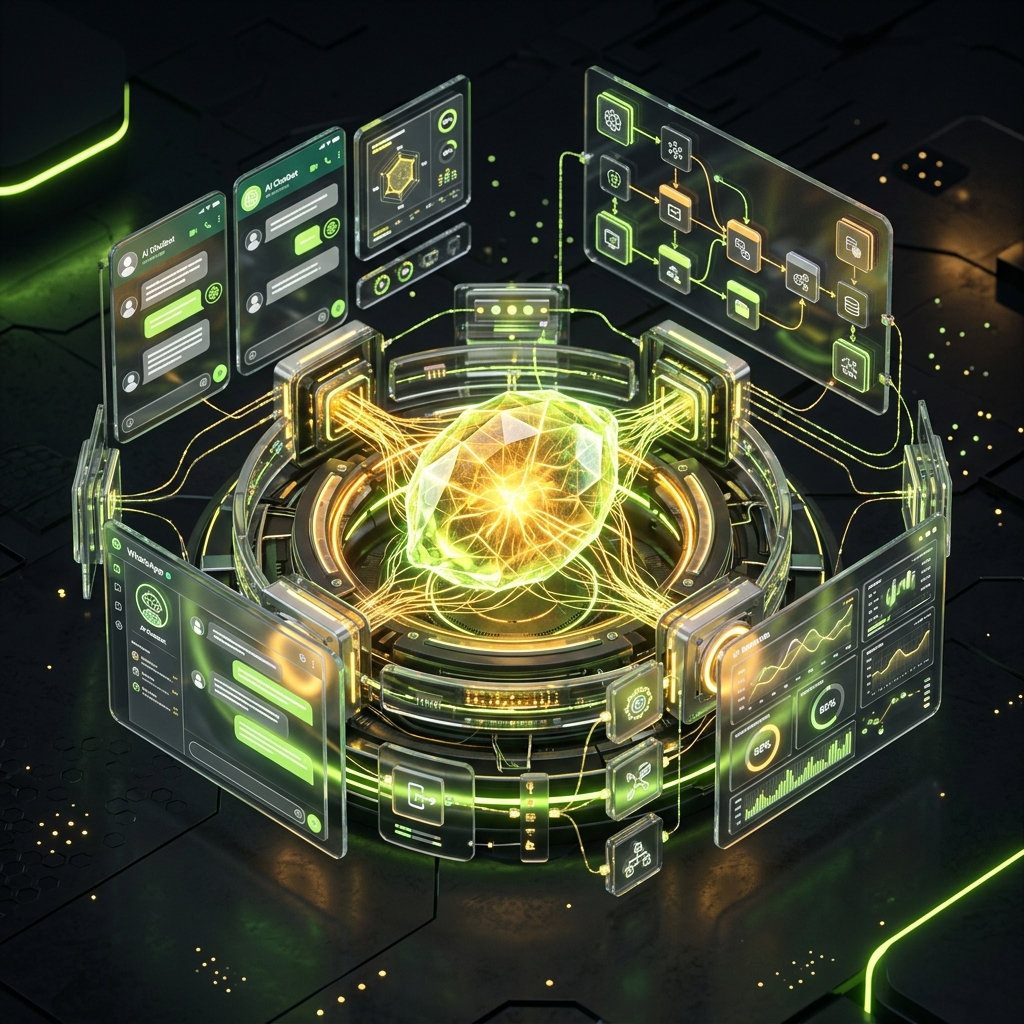
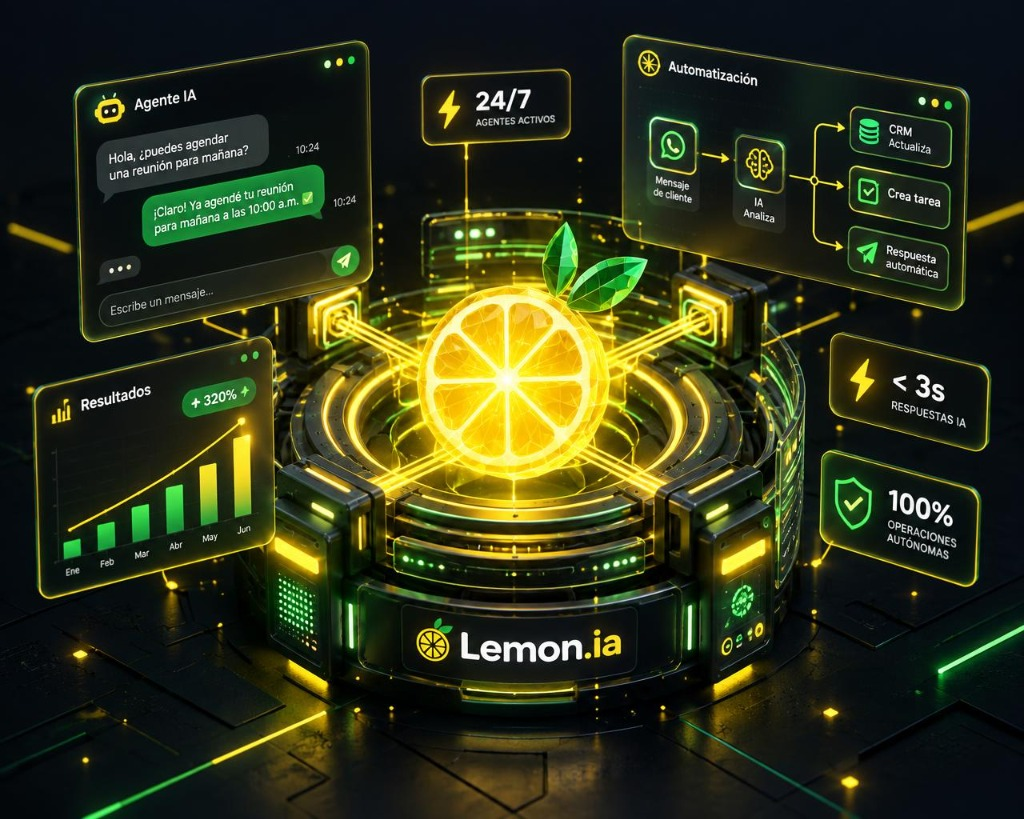
feat(lemon-ia): update hero right graphic with new 3D lemon.ia automation core illustration

diff --git a/html/lemon.iahtml/indexLemon.ia.html b/html/lemon.iahtml/indexLemon.ia.html
@@ -104,25 +104,14 @@
                     <span>LEMON_AI // Core Engine</span>
                 </div>
 
-                <!-- Main Display Card with lemon_ai_core.jpg -->
+                <!-- Main Display Card with new 3D Graphic -->
                 <div class="hero-core-card">
                     <img
-                        src="lemon_ai_core.jpg"
+                        src="lemon_hero_3d.jpg"
                         alt="lemon.ia Núcleo de Automatizaciones e Inteligencia Artificial"
                         class="hero-core-img"
                         loading="eager"
                     >
-
-                    <!-- Floating live stats banner -->
-                    <div class="hud-live-banner">
-                        <div style="display:flex;align-items:center;gap:6px;">
-                            <span style="color:#FACC15;">⚡</span>
-                            <span style="color:#E2E8F0;font-weight:700;">2,840+ Tareas/Día</span>
-                        </div>
-                        <div style="color:#10B981;font-weight:800;">
-                            99.4% Precisión
-                        </div>
-                    </div>
                 </div>
 
                 <!-- Floating HUD Tag Bottom -->

diff --git a/css/lemon.iacss/styleLemon.ia.css b/css/lemon.iacss/styleLemon.ia.css
@@ -389,7 +389,7 @@ h1, h2, h3 {
 .hero-core-wrapper {
     position: relative;
     width: 100%;
-    max-width: 460px;
+    max-width: 530px;
     margin: 0 auto;
 }
 
